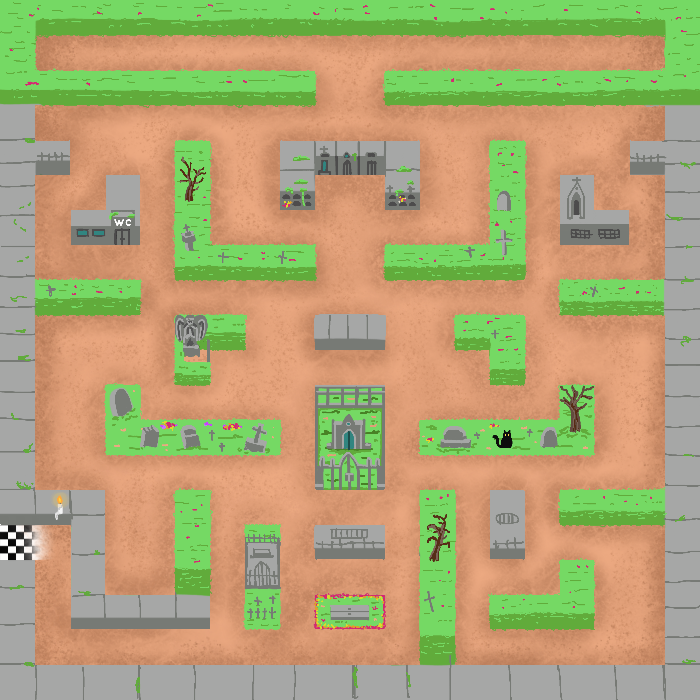
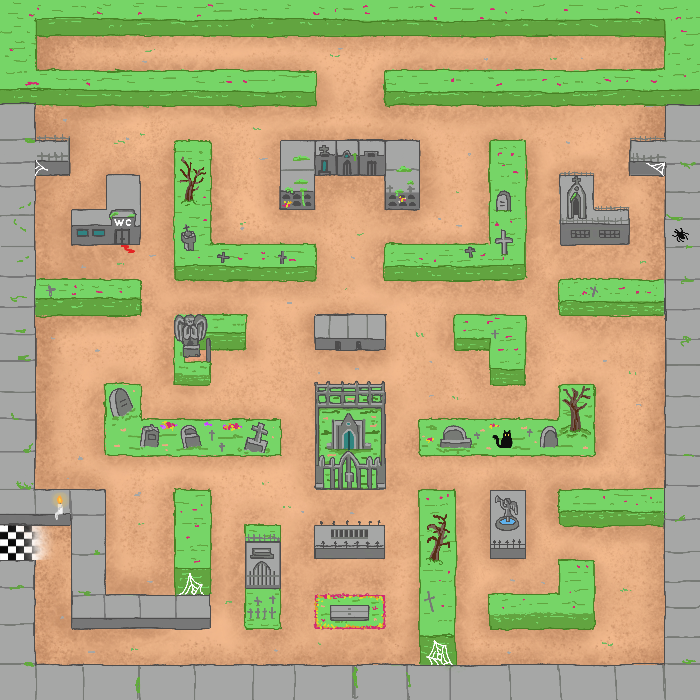
Dibuje y puse fondo cementerio del laberinto y realicé cmabios ligeros

diff --git a/src/Tablero.java b/src/Tablero.java
@@ -48,7 +48,7 @@ public class Tablero extends JPanel implements ActionListener, KeyListener {
         crearCalabazas();
 
         // inciamos posiciones de elementos visuales
-        this.background = new ImageIcon(getClass().getResource("/imagenes/background.png")).getImage();
+        this.background = new ImageIcon(getClass().getResource("/imagenes/bg.png")).getImage();
         iniciarPosicionZombies();
         iniciarPosicionRandomCalabazas();
         iniciarPosicionRandomPocion();
@@ -169,6 +169,7 @@ public class Tablero extends JPanel implements ActionListener, KeyListener {
 
         cambiarPanelTimer.setRepeats(false);
         cambiarPanelTimer.start();
+
     }
 
     // LABERINTO

diff --git a/src/Ventana.java b/src/Ventana.java
@@ -13,6 +13,7 @@ public class Ventana extends JFrame {
     // CONSTRUCTORES
     //==================================================================================================================
     public Ventana() {
+        this.setTitle("Laberinto del Terror");
         this.setSize(ANCHO_VENTANA, ALTO_VENTANA);
         this.setLocationRelativeTo(null);
         this.setDefaultCloseOperation(JFrame.EXIT_ON_CLOSE);

diff --git a/src/PaginaFinal.java b/src/PaginaFinal.java
@@ -100,8 +100,11 @@ public class PaginaFinal extends JPanel {
         Image titulo;
         if (ganador == '\0') {
             titulo = gameOver;
+            g.drawString("GAME OVER", 300, 200);
+
         } else {
             titulo = youWin;
+            g.drawString("YOU WON", 300, 200);
         }
         g.drawImage(titulo, getWidth()/2 - 150, 50, 300, 100, this);
 

diff --git a/src/PaginaPrincipal.java b/src/PaginaPrincipal.java
@@ -7,7 +7,7 @@ public class PaginaPrincipal extends JFrame {
 
     public PaginaPrincipal() {
         // Configuración del JFrame
-        setTitle("Pagina Principal");
+        setTitle("Laberinto del Terror");
         setSize(700, 766);
         setDefaultCloseOperation(JFrame.EXIT_ON_CLOSE);
         setLocationRelativeTo(null);
